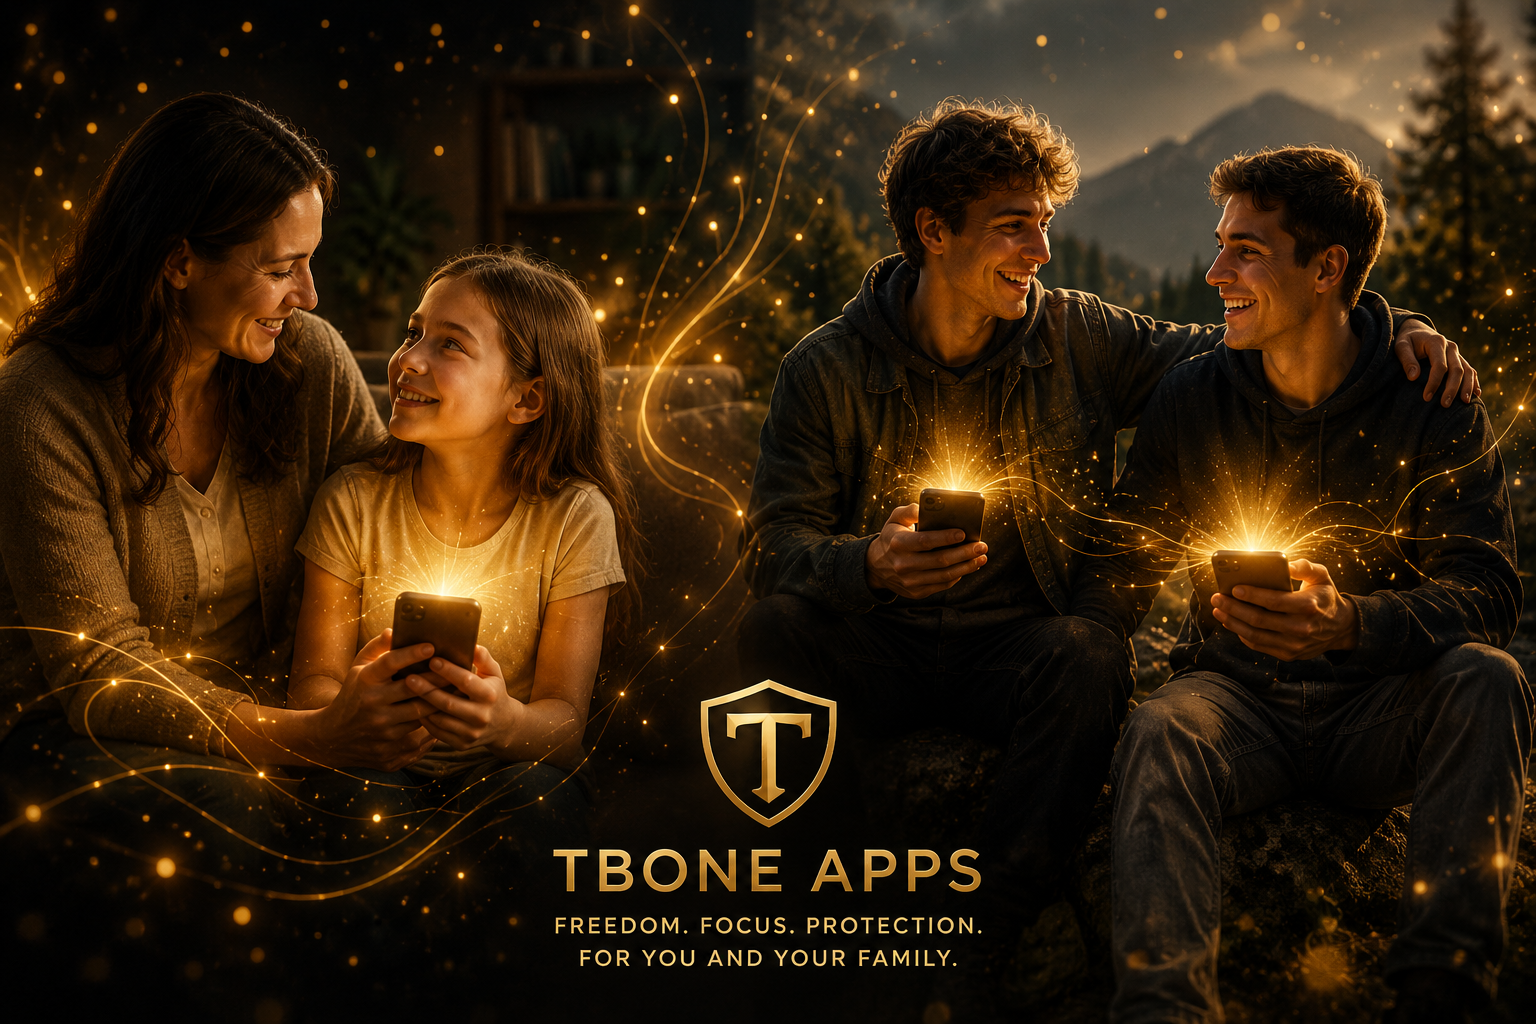
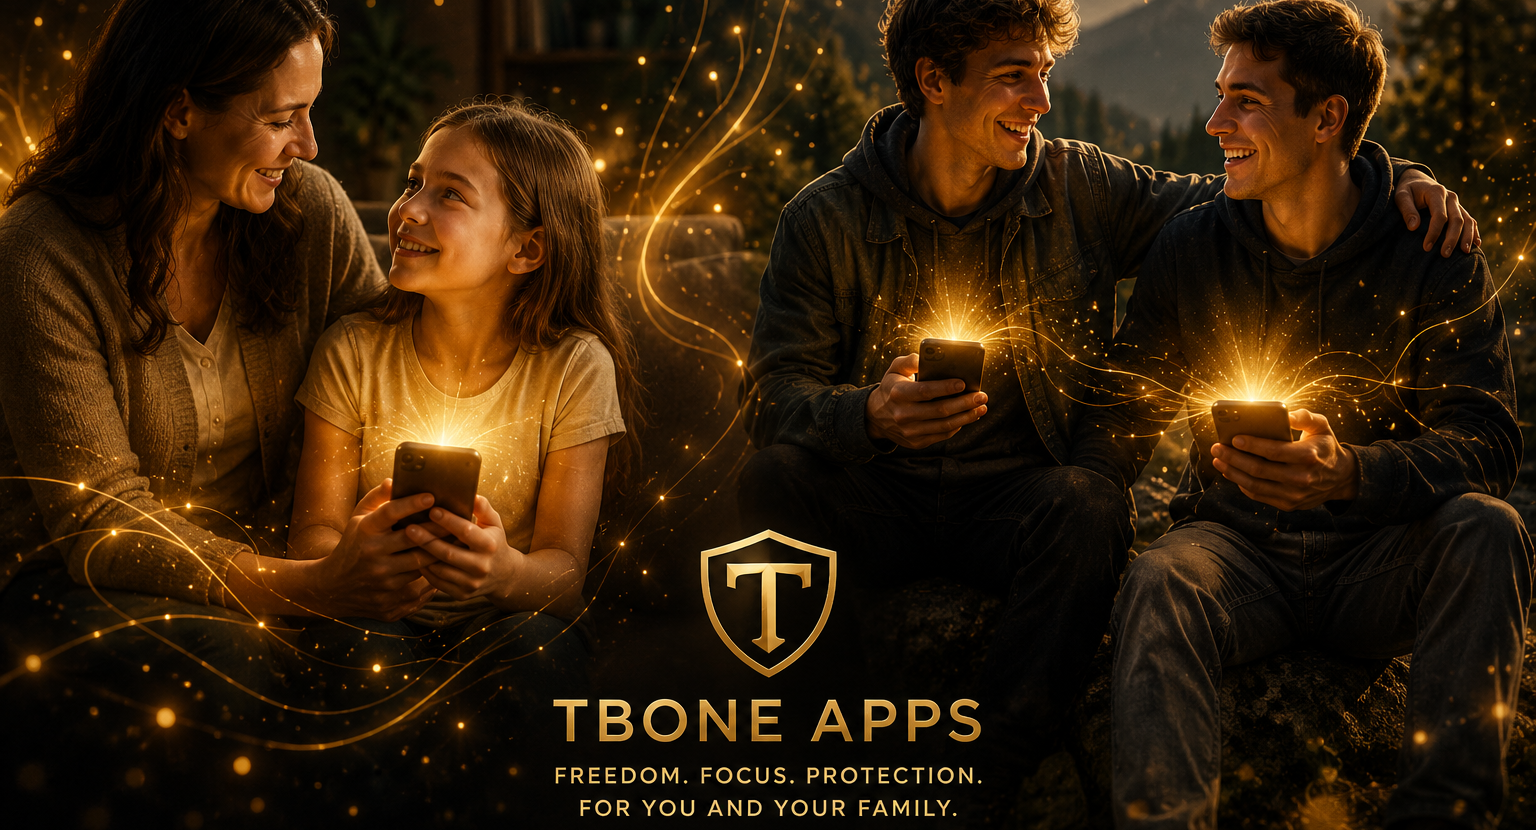
Replace hero image with widescreen crop, adjust sizing and glow
Swap tall hero photo for new 1536x830 widescreen crop. Reduce desktop
max-height to 46vh to suit the wider aspect ratio, and shrink the
ambient gold glow slightly to match the image's new proportions.

diff --git a/index.html b/index.html
@@ -8,8 +8,8 @@
     <meta property="og:title" content="Tbone Apps">
     <meta property="og:description" content="Apps that give you freedom and control.">
     <meta property="og:type" content="website">
-    <meta property="og:image" content="assets/tbone-apps-hero.webp">
-    <link rel="stylesheet" href="assets/styles.css?v=gold-20260723">
+    <meta property="og:image" content="assets/tbone-apps-hero.png">
+    <link rel="stylesheet" href="assets/styles.css?v=gold-20260724">
   </head>
   <body class="home">
     <a class="skip-link" href="#main">Skip to content</a>
@@ -32,7 +32,7 @@
 
     <main id="main">
       <section class="hero">
-        <img class="hero-image" src="assets/tbone-apps-hero.webp" alt="Family using phones with gold Tbone Apps protection glow">
+        <img class="hero-image" src="assets/tbone-apps-hero.png" alt="Family using phones with gold Tbone Apps protection glow">
         <div class="hero-shade" aria-hidden="true"></div>
         <div class="container hero-content">
           <h1 class="sr-only">Tbone Apps — Freedom. Focus. Protection.</h1>

diff --git a/assets/styles.css b/assets/styles.css
@@ -206,8 +206,8 @@ img {
   position: absolute;
   top: 50%;
   left: 50%;
-  width: 140%;
-  height: 120%;
+  width: 125%;
+  height: 95%;
   transform: translate(-50%, -50%);
   background: radial-gradient(ellipse at center, rgba(212, 175, 55, 0.35) 0%, rgba(212, 175, 55, 0.15) 40%, transparent 72%);
   filter: blur(45px);
@@ -243,7 +243,7 @@ body.home .page-stars {
 
 @media (min-width: 768px) {
   .hero-image {
-    max-height: 60vh;
+    max-height: 46vh;
     width: auto;
     max-width: 100%;
     margin-inline: auto;

diff --git a/apps/focus-feed/index.html b/apps/focus-feed/index.html
@@ -5,7 +5,7 @@
     <meta name="viewport" content="width=device-width, initial-scale=1">
     <title>Focus Feed | Tbone Apps</title>
     <meta name="description" content="Focus Feed helps users follow YouTube channels without endless recommendations and distractions.">
-    <link rel="stylesheet" href="../../assets/styles.css?v=gold-20260723">
+    <link rel="stylesheet" href="../../assets/styles.css?v=gold-20260724">
   </head>
   <body>
     <a class="skip-link" href="#main">Skip to content</a>

diff --git a/apps/index.html b/apps/index.html
@@ -5,7 +5,7 @@
     <meta name="viewport" content="width=device-width, initial-scale=1">
     <title>Apps | Tbone Apps</title>
     <meta name="description" content="Current and future apps from Tbone Apps, including Focus Feed.">
-    <link rel="stylesheet" href="../assets/styles.css?v=gold-20260723">
+    <link rel="stylesheet" href="../assets/styles.css?v=gold-20260724">
   </head>
   <body>
     <a class="skip-link" href="#main">Skip to content</a>

diff --git a/privacy-policy/index.html b/privacy-policy/index.html
@@ -5,7 +5,7 @@
     <meta name="viewport" content="width=device-width, initial-scale=1">
     <title>Privacy Policy | Tbone Apps</title>
     <meta name="description" content="Privacy Policy for Tbone Apps and Focus Feed.">
-    <link rel="stylesheet" href="../assets/styles.css?v=gold-20260723">
+    <link rel="stylesheet" href="../assets/styles.css?v=gold-20260724">
   </head>
   <body>
     <a class="skip-link" href="#main">Skip to content</a>

diff --git a/contact/index.html b/contact/index.html
@@ -5,7 +5,7 @@
     <meta name="viewport" content="width=device-width, initial-scale=1">
     <title>Contact | Tbone Apps</title>
     <meta name="description" content="Contact Tbone Apps by email.">
-    <link rel="stylesheet" href="../assets/styles.css?v=gold-20260723">
+    <link rel="stylesheet" href="../assets/styles.css?v=gold-20260724">
   </head>
   <body>
     <a class="skip-link" href="#main">Skip to content</a>
